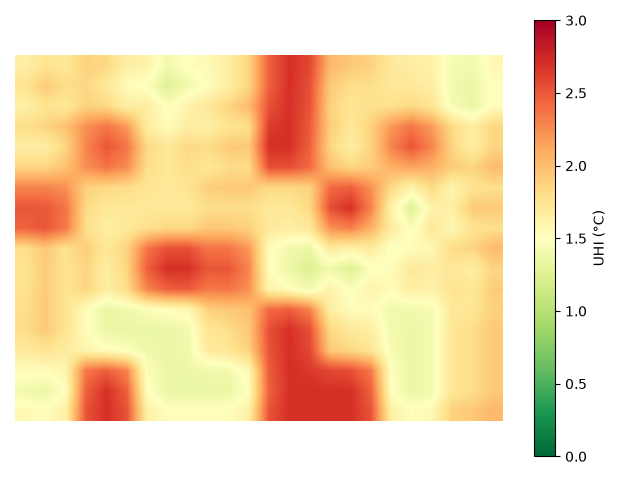
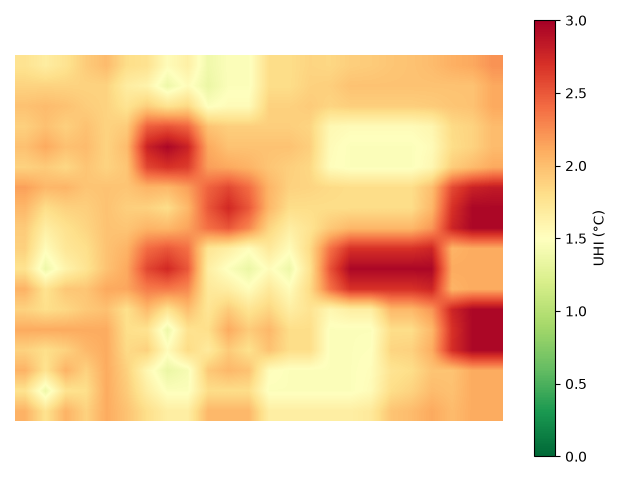
Added dynamic soil sealing

diff --git a/PythonProject2/TileManager.py b/PythonProject2/TileManager.py
@@ -11,9 +11,7 @@ class TileManager:
         self.tiles = np.empty(shape=grid_size, dtype=object)
         for i in range(grid_size[0]):
             for j in range(grid_size[1]):
-                self.tiles[i, j] = Tile((i, j), random.randint(0, 7))
-
-        self.tile_population = 0
+                self.tiles[i, j] = Tile((i, j), random.randint(0, 7)) # Place random tile in each position
 
 
     def update_tile(self, position, type):
@@ -23,9 +21,7 @@ class TileManager:
 
         print(x, y)
 
-        self.tile_population -= self.tiles[x, y].population # Remove population addition of that tile
-        self.tiles[x, y] = Tile((x, y), type)
-        self.tile_population += self.tiles[x, y].population # Add population of that tile
+        self.tiles[x, y] = Tile((x, y), type) # Place new tile
 
     def get_subtiles(self):
         # Make empty subtiles array
@@ -39,3 +35,11 @@ class TileManager:
                 subtiles[x, y] = subtile
 
         return subtiles
+    
+    def get_soil_population(self):
+        tile_population = 0
+        tile_soil_sealing = 0
+        for tile in self.tiles.flat:
+            tile_population += tile.population
+            tile_soil_sealing += tile.soil_sealing
+        return tile_soil_sealing, tile_population

diff --git a/PythonProject2/SubTile.py b/PythonProject2/SubTile.py
@@ -9,8 +9,13 @@ class Subtile:
         self.UHI = 0
 
         self.population = 0
-        if type == "built_low": self.population = 4
-        if type == "built_high": self.population = 10
+        self.soil_sealing = 0
+        if type == "built_low": 
+            self.population = 7
+            self.soil_sealing = 0.128
+        if type == "built_high": 
+            self.population = 10
+            self.soil_sealing = 0.128
 
     def get_total_subtile(self, tile_pos):
         s_amount = int(math.sqrt(subtile_amount))

diff --git a/PythonProject2/Calculator.py b/PythonProject2/Calculator.py
@@ -9,22 +9,22 @@ class Calculator:
         self.city = None
         self.subtiles = np.empty(shape=(int(math.sqrt(subtile_amount)) * grid_size[0], int(math.sqrt(subtile_amount)) * grid_size[1]), dtype=object) # temporary empty list
 
-    def update_calculation(self, city, subtiles, tile_population):
+    def update_calculation(self, city, subtiles, tile_population, tile_soil_sealing):
         self.city = city
         self.subtiles = subtiles
         for x in range(grid_size[0] * int(math.sqrt(subtile_amount))):
             for y in range(grid_size[1] * int(math.sqrt(subtile_amount))):
                 # For subtile at (X, Y):
                 current_subtile = self.subtiles[x, y]
-                UHI = self.calc_act_UHI(x, y, tile_population)
+                UHI = self.calc_act_UHI(x, y, tile_population, tile_soil_sealing)
                 print(UHI)
                 current_subtile.UHI = UHI
 
-    def calc_act_UHI(self, x, y, tile_population):
+    def calc_act_UHI(self, x, y, tile_population, tile_soil_sealing):
         max_UHI = -1.605 + (1.062 * math.log10(self.city.population + tile_population)) - (0.356 * self.calc_wind10m(x, y))
         if max_UHI < 0: max_UHI = 0
 
-        pot_UHI = max_UHI * self.city.soil_sealing / 100
+        pot_UHI = max_UHI * (self.city.soil_sealing + tile_soil_sealing) / 100
 
         type_reduction = self.calc_type_reduction(x, y)
         act_UHI = pot_UHI * (1-type_reduction)

diff --git a/PythonProject2/Tile.py b/PythonProject2/Tile.py
@@ -14,6 +14,7 @@ class Tile:
             self.type = data[str(type)]
 
         self.population = 0
+        self.soil_sealing = 0
 
         # Generate subtiles
         self.subtiles = np.empty(shape=(int(math.sqrt(subtile_amount)), int(math.sqrt(subtile_amount))), dtype=object)
@@ -21,3 +22,4 @@ class Tile:
             for y in range(int(math.sqrt(subtile_amount))):
                 self.subtiles[x, y] = Subtile(self.type, (x, y), self.grid_pos)
                 self.population += self.subtiles[x, y].population
+                self.soil_sealing += self.subtiles[x, y].soil_sealing

diff --git a/PythonProject2/main.py b/PythonProject2/main.py
@@ -98,7 +98,7 @@ def main():
 def update_everything(tile_manager, city, calculator, heatmap):
     # Update calculations and heatmap
     all_subtiles = tile_manager.get_subtiles()
-    calculator.update_calculation(city, all_subtiles, tile_manager.tile_population)
+    calculator.update_calculation(city, all_subtiles, tile_manager.get_soil_population()[1], tile_manager.get_soil_population()[0])
     heatmap.update_heatmap(all_subtiles)
 
 def get_player_loc_data(player_pos, city, tile_manager):